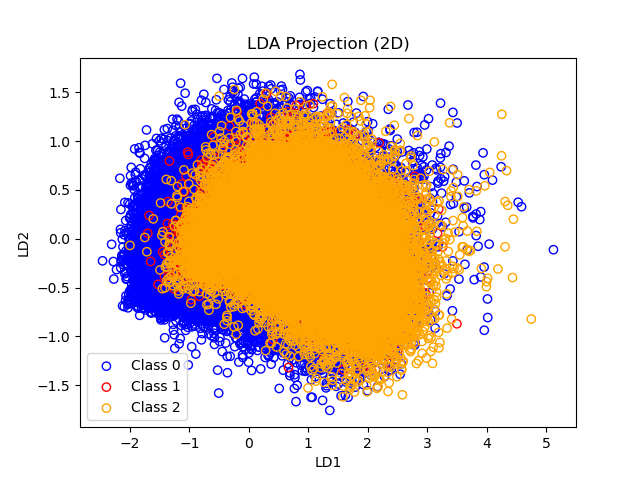
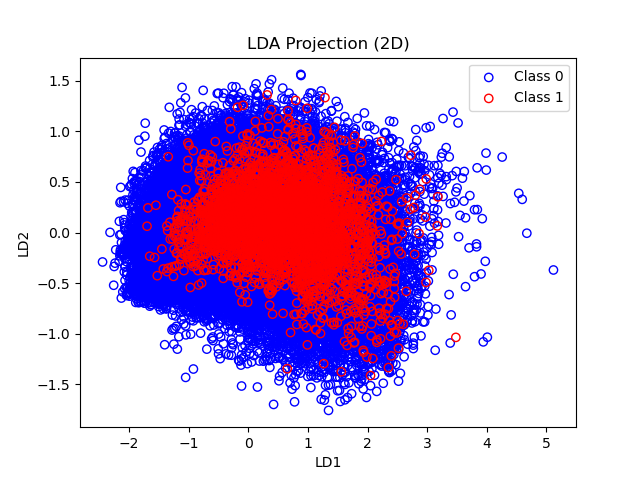
changes to grid search to include rf/eign accuracy stuff + make faster

diff --git a/LDA_Grid_Search.py b/LDA_Grid_Search.py
@@ -1,0 +1,171 @@
+import pandas as pd
+import numpy as np
+import matplotlib.pyplot as plt
+from sklearn.ensemble import RandomForestClassifier
+from sklearn.metrics import accuracy_score
+
+sd = 42
+np.random.seed(sd)
+
+
+# # Generic function to compute accuracy and plot results
+# def plot(X_train, y_train, X_test, y_test, param_list, model_name, search_fn):
+#     accuracies = []
+
+#     for param in param_list:
+#         accuracy = search_fn(X_train, y_train, X_test, y_test, param)
+#         accuracies.append(accuracy)
+#         print(f"{model_name} Param: {param}, Accuracy: {accuracy * 100:.2f}%")
+
+#     # Plotting accuracy vs parameter
+#     plt.figure(figsize=(10, 6))
+#     plt.plot(param_list, [a * 100 for a in accuracies], marker='o')
+#     plt.title(f'{model_name} Accuracy vs Parameter')
+#     plt.xlabel('Parameter')
+#     plt.ylabel('Accuracy (%)')
+#     plt.grid(True)
+#     plt.savefig(f'{model_name.lower()}_accuracy_vs_parameter.png')
+#     plt.close()
+
+#     return accuracies
+
+# Function to perform LDA transformation
+def perform_lda(X_train, y_train, X_test):
+    classes = np.unique(y_train)
+    mean_vectors = {c: np.mean(X_train[y_train == c], axis=0) for c in classes}
+    mean_overall = np.mean(X_train, axis=0)
+
+    X_train_norm = X_train - mean_overall
+    X_test_norm = X_test - mean_overall
+
+    num_features = X_train.shape[1]
+    wc_ms = np.zeros((num_features, num_features))
+    bc_ms = np.zeros((num_features, num_features))
+
+    for c in classes:
+        class_data = X_train[y_train == c]
+        mean_c = mean_vectors[c].reshape(-1, 1)
+        wc_ms += np.sum([(x.reshape(-1, 1) - mean_c) @ (x.reshape(-1, 1) - mean_c).T for x in class_data], axis=0)
+        num_samples_c = class_data.shape[0]
+        mean_diff = (mean_vectors[c] - mean_overall).reshape(-1, 1)
+        bc_ms += num_samples_c * (mean_diff @ mean_diff.T)
+
+    new_mat = np.linalg.pinv(wc_ms) @ bc_ms
+    eigenvalues, eigenvectors = np.linalg.eig(new_mat)
+
+    sorted_indices = np.argsort(-eigenvalues.real)
+    eigvecs = eigenvectors[:, sorted_indices].real
+    
+    
+    def project_data(n_components):
+        W = eigvecs[:, :n_components]
+        W = eigvecs[:, :n_components]
+        X_train_lda = X_train_norm @ W
+        X_test_lda = X_test_norm @ W
+        return X_train_lda, X_test_lda
+    
+    return project_data
+
+# Search function for LDA
+def lda_search_fn(X_train_lda, y_train, X_test_lda, y_test):
+    class_means_lda = {c: np.mean(X_train_lda[y_train == c], axis=0) for c in np.unique(y_train)}
+
+    def predict(x):
+        distances = {c: np.linalg.norm(x - mean) for c, mean in class_means_lda.items()}
+        return min(distances, key=distances.get)
+
+    y_pred = np.array([predict(x) for x in X_test_lda])
+    return accuracy_score(y_test, y_pred)
+
+# Search function for Random Forest
+def rf_search_fn(X_train, y_train, X_test, y_test, n_estimators):
+    rf_classifier = RandomForestClassifier(n_estimators=n_estimators, random_state=sd)
+    rf_classifier.fit(X_train, y_train)
+    y_pred = rf_classifier.predict(X_test)
+    return accuracy_score(y_test, y_pred)
+
+def plot_accuracies(x_values, accuracies, xlabel, ylabel, title, label=None):
+    plt.plot(x_values, accuracies, marker='o', label=label)
+    plt.xlabel(xlabel)
+    plt.ylabel(ylabel)
+    plt.title(title)
+    plt.grid(True)
+    if label:
+        plt.legend()
+
+
+# Function to combine LDA and Random Forest in a pipeline
+def lda_rf_pipeline(X_train, y_train, X_test, y_test, n_components_list, n_estimators_list):
+    classes = np.unique(y_train)
+    max_components = min(len(classes) - 1, X_train.shape[1])
+    
+    compute_projection = perform_lda(X_train, y_train, X_test)
+    # for n_components in n_components_list:
+        
+    #     n_components = min(n_components, max_components)
+    #     X_train_lda, X_test_lda = compute_projection(n_components)
+        
+    #     lda_search_fn(X_train_lda, y_train, X_test_lda, y_test)
+        
+    #     for n in n_estimators_list:
+    #         rf_search_fn(X_train_lda, y_train, X_test_lda, y_test, n_estimators = n)
+
+    lda_accuracies = []
+    for n_components in n_components_list:
+        X_train_lda, X_test_lda = compute_projection(n_components)
+        acc = lda_search_fn(X_train_lda, y_train, X_test_lda, y_test)
+        lda_accuracies.append(acc)
+    plot_accuracies(n_components_list, lda_accuracies, "Number of Components", "Accuracy",
+                    "LDA Accuracy by Number of Components", label="LDA")
+    
+
+    # RF Accuracy Plot with Overlays
+    for n_estimators in n_estimators_list:
+        rf_accuracies = []
+        for n_components in n_components_list:
+            X_train_lda, X_test_lda = compute_projection(n_components)
+            acc = rf_search_fn(X_train_lda, y_train, X_test_lda, y_test, n_estimators)
+            rf_accuracies.append(acc)
+
+        plot_accuracies(n_components_list, rf_accuracies, "Number of Components", "Accuracy",
+                        f"RF Accuracy (n_estimators={n_estimators}) vs LDA", label=f"RF (n={n_estimators})")
+        
+        plt.legend()
+        plt.savefig("lda_rf_accuracy_comparison.png")
+        plt.show()
+
+# Function to process data file and apply searches
+def process_data_file(file_path, n_estimators_list):
+    print(f"\nProcessing file: {file_path}")
+    data = pd.read_csv(file_path)
+    data = data.sample(frac=0.1, random_state=42) #DELETE LATER
+    X = data.iloc[:, 1:].values
+    y = data.iloc[:, 0].values
+
+    split_ratio = 0.8
+    indices = np.random.permutation(len(X))
+    split_index = int(len(X) * split_ratio)
+    X_train, X_test = X[indices[:split_index]], X[indices[split_index:]]
+    y_train, y_test = y[indices[:split_index]], y[indices[split_index:]]
+
+    classes = np.unique(y_train)
+    max_components = 10#min(len(classes) - 1, X_train.shape[1])
+    n_components_list = list(range(1, max_components + 1))
+
+    # print("\nLDA Grid Search:")
+    # # grid_search_and_plot(X_train, y_train, X_test, y_test, n_components_list, "LDA", lda_search_fn)
+
+    # print("\nRandom Forest Grid Search:")
+    # # grid_search_and_plot(X_train, y_train, X_test, y_test, n_estimators_list, "Random Forest", rf_search_fn)
+
+    print("\nLDA + Random Forest Pipeline:")
+    lda_rf_pipeline(X_train, y_train, X_test, y_test, n_components_list, n_estimators_list)
+
+# Define data files and parameters
+data_files = [
+    "data/diabetes_012_health_indicators_BRFSS2015.csv"
+]
+n_estimators_list = [50, 100, 150, 200]
+
+for file_path in data_files:
+    process_data_file(file_path, n_estimators_list)

diff --git a/LDA_RF.py b/LDA_RF.py
@@ -56,7 +56,7 @@ eigvals = eigenvalues[sorted_indices].real
 eigvecs = eigenvectors[:, sorted_indices].real
 
 # Project the data onto top two eigenvectors (for 2D visualization)
-W2 = eigvecs[:, :2]
+W2 = eigvecs[:, :3]
 W10 = eigvecs[:, :10]
 
 X_train_lda = X_train_norm @ W2
@@ -75,13 +75,18 @@ plt.ylabel("LD2")
 plt.savefig("lda_projection_2D.png")
 plt.close()
 
-# Random Forest classifier with LDA projected data
-rf_classifier = RandomForestClassifier(n_estimators=100, random_state=42)
-rf_classifier.fit(X_train_lda, y_train)
+for i in range(15):
+    if i == 0: continue
+    W2 = eigvecs[:, :i]
 
-# Make predictions on the test set
-y_pred = rf_classifier.predict(X_test_lda)
+    X_train_lda = X_train_norm @ W2
+    X_test_lda = (X_test - mean_overall) @ W2
+    # Random Forest classifier with LDA projected data
+    rf_classifier = RandomForestClassifier(n_estimators=20, random_state=42)
+    rf_classifier.fit(X_train, y_train)
 
-# Calculate accuracy
-accuracy = accuracy_score(y_test, y_pred)
-print(f"Accuracy: {accuracy * 100:.2f}%")
+    # Make predictions on the test set
+    y_pred = rf_classifier.predict(X_test)
+
+    accuracy = accuracy_score(y_test, y_pred)
+    print(f"Accuracy ({i} eigenvectors): {accuracy * 100:.2f}%")

diff --git a/Finding_Important_Features.py b/Finding_Important_Features.py
@@ -27,11 +27,27 @@ feature_importance_df = pd.DataFrame({
 feature_importance_df = feature_importance_df.sort_values(by='Importance', ascending=False)
 print(feature_importance_df)
 
+# Configure dark theme
+plt.style.use('dark_background')
 plt.figure(figsize=(10, 6))
-plt.barh(feature_importance_df['Feature'], feature_importance_df['Importance'], color='skyblue')
-plt.xlabel('Importance')
-plt.ylabel('Feature')
-plt.title('Feature Importance from Random Forest')
+plt.barh(
+    feature_importance_df['Feature'], 
+    feature_importance_df['Importance'], 
+    color='#00cadaff', 
+    #edgecolor='white'
+)
+plt.xlabel('Importance', color='white')
+plt.ylabel('Feature', color='white')
+plt.title('Feature Importance from Random Forest', color='white')
+
+# Set background color
 plt.gca().invert_yaxis()
+plt.gcf().patch.set_facecolor('#120e24ff')  # Background for the figure
+
+# Rotate y-axis labels for better visibility
+plt.yticks(rotation=45, color='white')
+
 plt.show()
-plt.savefig("Feature Importance")
+
+# Save the figure
+plt.savefig("Feature_Importance_Dark.png", facecolor='#120e24ff')
